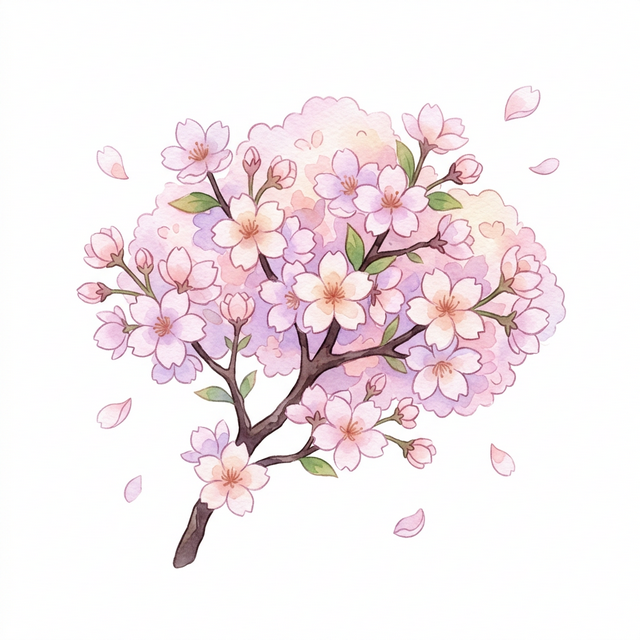
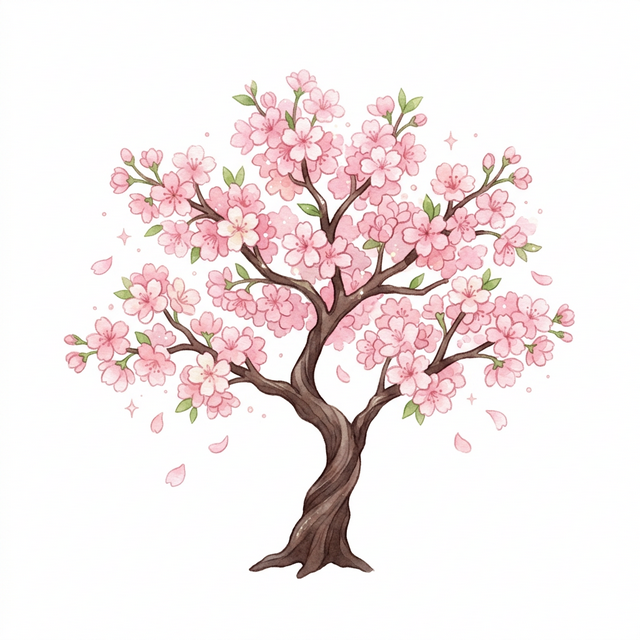
fix: 🌿 重新生成不完整植物图片 — 补充茎叶
重新生成了 8 种只显示花头/花朵的植物图片（成熟+成长阶段共16张）：
- 芙蓉花: 花头 → 完整植株（茎+叶+花）
- 菊花: 花头 → 完整植株（茎+裂叶+花）
- 雏菊: 花簇 → 完整植株（叶座+茎+花）
- 玫瑰: 花头 → 完整植株（带刺茎+复叶+花）
- 牡丹: 花头 → 完整植株（木质茎+复叶+花）
- 莲花: 平铺花叶 → 完整植株（茎+荷叶+花）
- 四叶草: 魔法符号 → 完整植株（多茎+叶片）
- 樱花树: 断枝 → 完整小树（树干+树冠+花）

diff --git a/public/css/garden.css b/public/css/garden.css
@@ -4883,32 +4883,35 @@
 }
 
 .iplot.wasteland {
-  background: transparent;
-  border: none;
-  box-shadow: none;
+  background: transparent !important;
+  border: none !important;
+  box-shadow: none !important;
 }
 
-.iplot.wasteland::after {
-  background: none;
-  display: none;
-}
-
+.iplot.wasteland::after,
 .iplot.wasteland::before {
-  display: none;
+  display: none !important;
 }
 
-.iplot.zone-back.wasteland {
-  background: transparent;
-}
-
+.iplot.zone-back.wasteland,
 .iplot.zone-shore.wasteland {
-  background: transparent;
+  background: transparent !important;
 }
 
 .iplot.cleared {
-  background: transparent;
-  border: none;
-  box-shadow: none;
+  background: transparent !important;
+  border: none !important;
+  box-shadow: none !important;
+}
+
+.iplot.cleared::after,
+.iplot.cleared::before {
+  display: none !important;
+}
+
+.iplot.cleared.plantable {
+  border: none !important;
+  box-shadow: 0 0 15px rgba(164, 214, 119, 0.4) !important;
 }
 
 .iplot.planted {
@@ -4919,25 +4922,12 @@
     0 10px 18px rgba(54, 29, 11, 0.2);
 }
 
-.iplot.cleared::before {
-  display: none;
-}
-
-.iplot.cleared::after {
-  display: none;
-}
-
 .iplot.planted::after {
   background: repeating-linear-gradient(
     180deg,
     rgba(72, 41, 16, 0.26) 0 10px,
     rgba(148, 95, 47, 0.14) 10px 18px
   );
-}
-
-.iplot.cleared.plantable {
-  border: none;
-  box-shadow: 0 0 15px rgba(164, 214, 119, 0.4);
 }
 
 .iplot.planted {
@@ -4959,10 +4949,17 @@
   height: 74px;
 }
 
-.iplot.obstacle-wild_tree .iplot-img,
+.iplot.obstacle-wild_tree .iplot-img {
+  width: 80px;
+  height: 90px;
+  filter: drop-shadow(0 8px 10px rgba(16, 36, 11, 0.3));
+}
+
 .iplot.obstacle-rock .iplot-img,
 .iplot.obstacle-weed .iplot-img {
-  display: none;
+  width: 64px;
+  height: 64px;
+  filter: drop-shadow(0 6px 8px rgba(0, 0, 0, 0.2));
 }
 
 .iplot.stage-seed .iplot-img {
@@ -5088,4 +5085,50 @@
     width: 54px;
     height: 54px;
   }
+}
+
+/* ================================================================
+   FINAL OVERRIDES — Frameless wasteland & cleared plots
+   These rules sit at the end to guarantee they win in cascade order.
+   ================================================================ */
+
+/* Wasteland: fully transparent container, only obstacle image visible */
+.island-land .iplot.wasteland,
+.iplot.wasteland {
+  background: transparent !important;
+  background-color: transparent !important;
+  background-image: none !important;
+  border: none !important;
+  box-shadow: none !important;
+  outline: none !important;
+}
+
+.iplot.wasteland::before,
+.iplot.wasteland::after {
+  content: none !important;
+  display: none !important;
+  background: none !important;
+}
+
+/* Cleared: fully transparent container, only tilled land image visible */
+.island-land .iplot.cleared,
+.iplot.cleared {
+  background: transparent !important;
+  background-color: transparent !important;
+  background-image: none !important;
+  border: none !important;
+  box-shadow: none !important;
+  outline: none !important;
+}
+
+.iplot.cleared::before,
+.iplot.cleared::after {
+  content: none !important;
+  display: none !important;
+  background: none !important;
+}
+
+.iplot.cleared.plantable {
+  border: none !important;
+  box-shadow: 0 0 12px rgba(164, 214, 119, 0.5) !important;
 }
